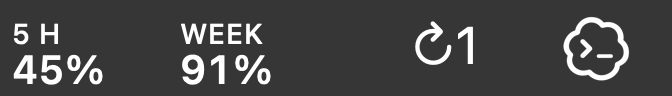
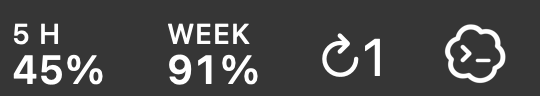
Refine menu bar spacing for v1.0.1

diff --git a/Sources/CodexUsageMenu/main.swift b/Sources/CodexUsageMenu/main.swift
@@ -247,7 +247,7 @@ private enum StatusDisplayMode: Int, CaseIterable {
 
     var width: CGFloat {
         switch self {
-        case .automatic, .full: return 168
+        case .automatic, .full: return 135
         case .compact: return 116
         case .iconOnly: return 24
         }
@@ -302,7 +302,7 @@ private final class StatusContentView: NSView {
         let compact = displayMode == .compact
         let columns: [(String, String, CGFloat, CGFloat)] = compact
             ? [("5 H", fiveHour, 0, 29), ("WEEK", week, 30, 35)]
-            : [("5 H", fiveHour, 3, 39), ("WEEK", week, 45, 45)]
+            : [("5 H", fiveHour, 3, 32), ("WEEK", week, 41.75, 34)]
         let labelFont = NSFont.systemFont(ofSize: 7, weight: .medium)
         let valueFont = NSFont.monospacedDigitSystemFont(ofSize: 10, weight: .semibold)
         let foreground: NSColor = usesWhiteForeground ? .white : .black
@@ -314,11 +314,11 @@ private final class StatusContentView: NSView {
         }
         drawText("↻\(resets)", font: compact ? NSFont.systemFont(ofSize: 11, weight: .medium)
                                            : NSFont.menuBarFont(ofSize: 0),
-                 color: foreground, in: compact ? NSRect(x: 66, y: 3, width: 25, height: 18)
-                                                : NSRect(x: 92, y: 3, width: 39, height: 18))
+                 color: foreground, in: compact ? NSRect(x: 66, y: 0, width: 25, height: 18)
+                                                : NSRect(x: 74.75, y: 0, width: 27, height: 18))
         (usesWhiteForeground ? whiteCodexIcon : codexIcon)?
             .draw(in: compact ? NSRect(x: 92, y: 1, width: 22, height: 22)
-                              : NSRect(x: 136, y: -1, width: 26, height: 26),
+                              : NSRect(x: 106.75, y: -1.25, width: 24, height: 24),
                   from: .zero, operation: .sourceOver, fraction: 1)
     }
 
@@ -414,7 +414,7 @@ private final class MenuInfoView: NSView {
     }
 
     init() {
-        super.init(frame: NSRect(x: 0, y: 0, width: 360, height: 22))
+        super.init(frame: NSRect(x: 0, y: 0, width: 300, height: 22))
         label.translatesAutoresizingMaskIntoConstraints = false
         label.font = NSFont.menuFont(ofSize: 0)
         label.textColor = .labelColor

diff --git a/.github/release-notes.md b/.github/release-notes.md
@@ -1,20 +1,9 @@
-## Codex Usage Menu 1.0
+## Codex Usage Menu 1.0.1
 
-首个正式稳定版本。面向 macOS 13 或更新版本，提供 Apple Silicon 与 Intel 通用安装包。
+### 界面调整
 
-### 主要功能
-
-- 菜单栏显示 Codex 的 5 小时和每周剩余用量，以及可用重置次数。
-- 完整、紧凑、仅图标和自动四种布局，适配 13 英寸刘海屏。
-- 原生 macOS 用量窗口，支持浅色与深色外观。
-- 单实例运行；重复打开不会产生多个进程或菜单栏项目。
-- 关闭窗口后继续在菜单栏运行，从“应用程序”再次打开可恢复窗口。
-- 自动查找 ChatGPT、Codex App 或常见安装位置中的 Codex CLI。
-- 使用 Codex 时每 2 分钟刷新，空闲时每小时刷新。
-- 简体中文、繁体中文和英文界面。
-
-### 安装
-
-下载 DMG 后打开，双击其中的“安装 Codex Usage Menu.pkg”；也可以直接下载 PKG。应用会安装到 `/Applications/Codex Usage Menu.app`，安装完成后自动打开。
-
-当前安装包使用本地签名，尚未经过 Apple Developer ID 签名与公证。首次打开如被 macOS 阻止，请进入“系统设置 → 隐私与安全性”并选择“仍要打开”。
+- 缩窄点击菜单栏图标后显示的下拉菜单。
+- 收紧菜单栏完整模式的总宽度。
+- 将 `5 H`、`WEEK`、重置次数和 Codex 图标之间的可见间距统一为 16 点。
+- 将重置次数向下调整，使它与两行用量信息在垂直方向居中对齐。
+- 将 Codex 图标向下微调，使其可见中心与两行用量信息一致。
